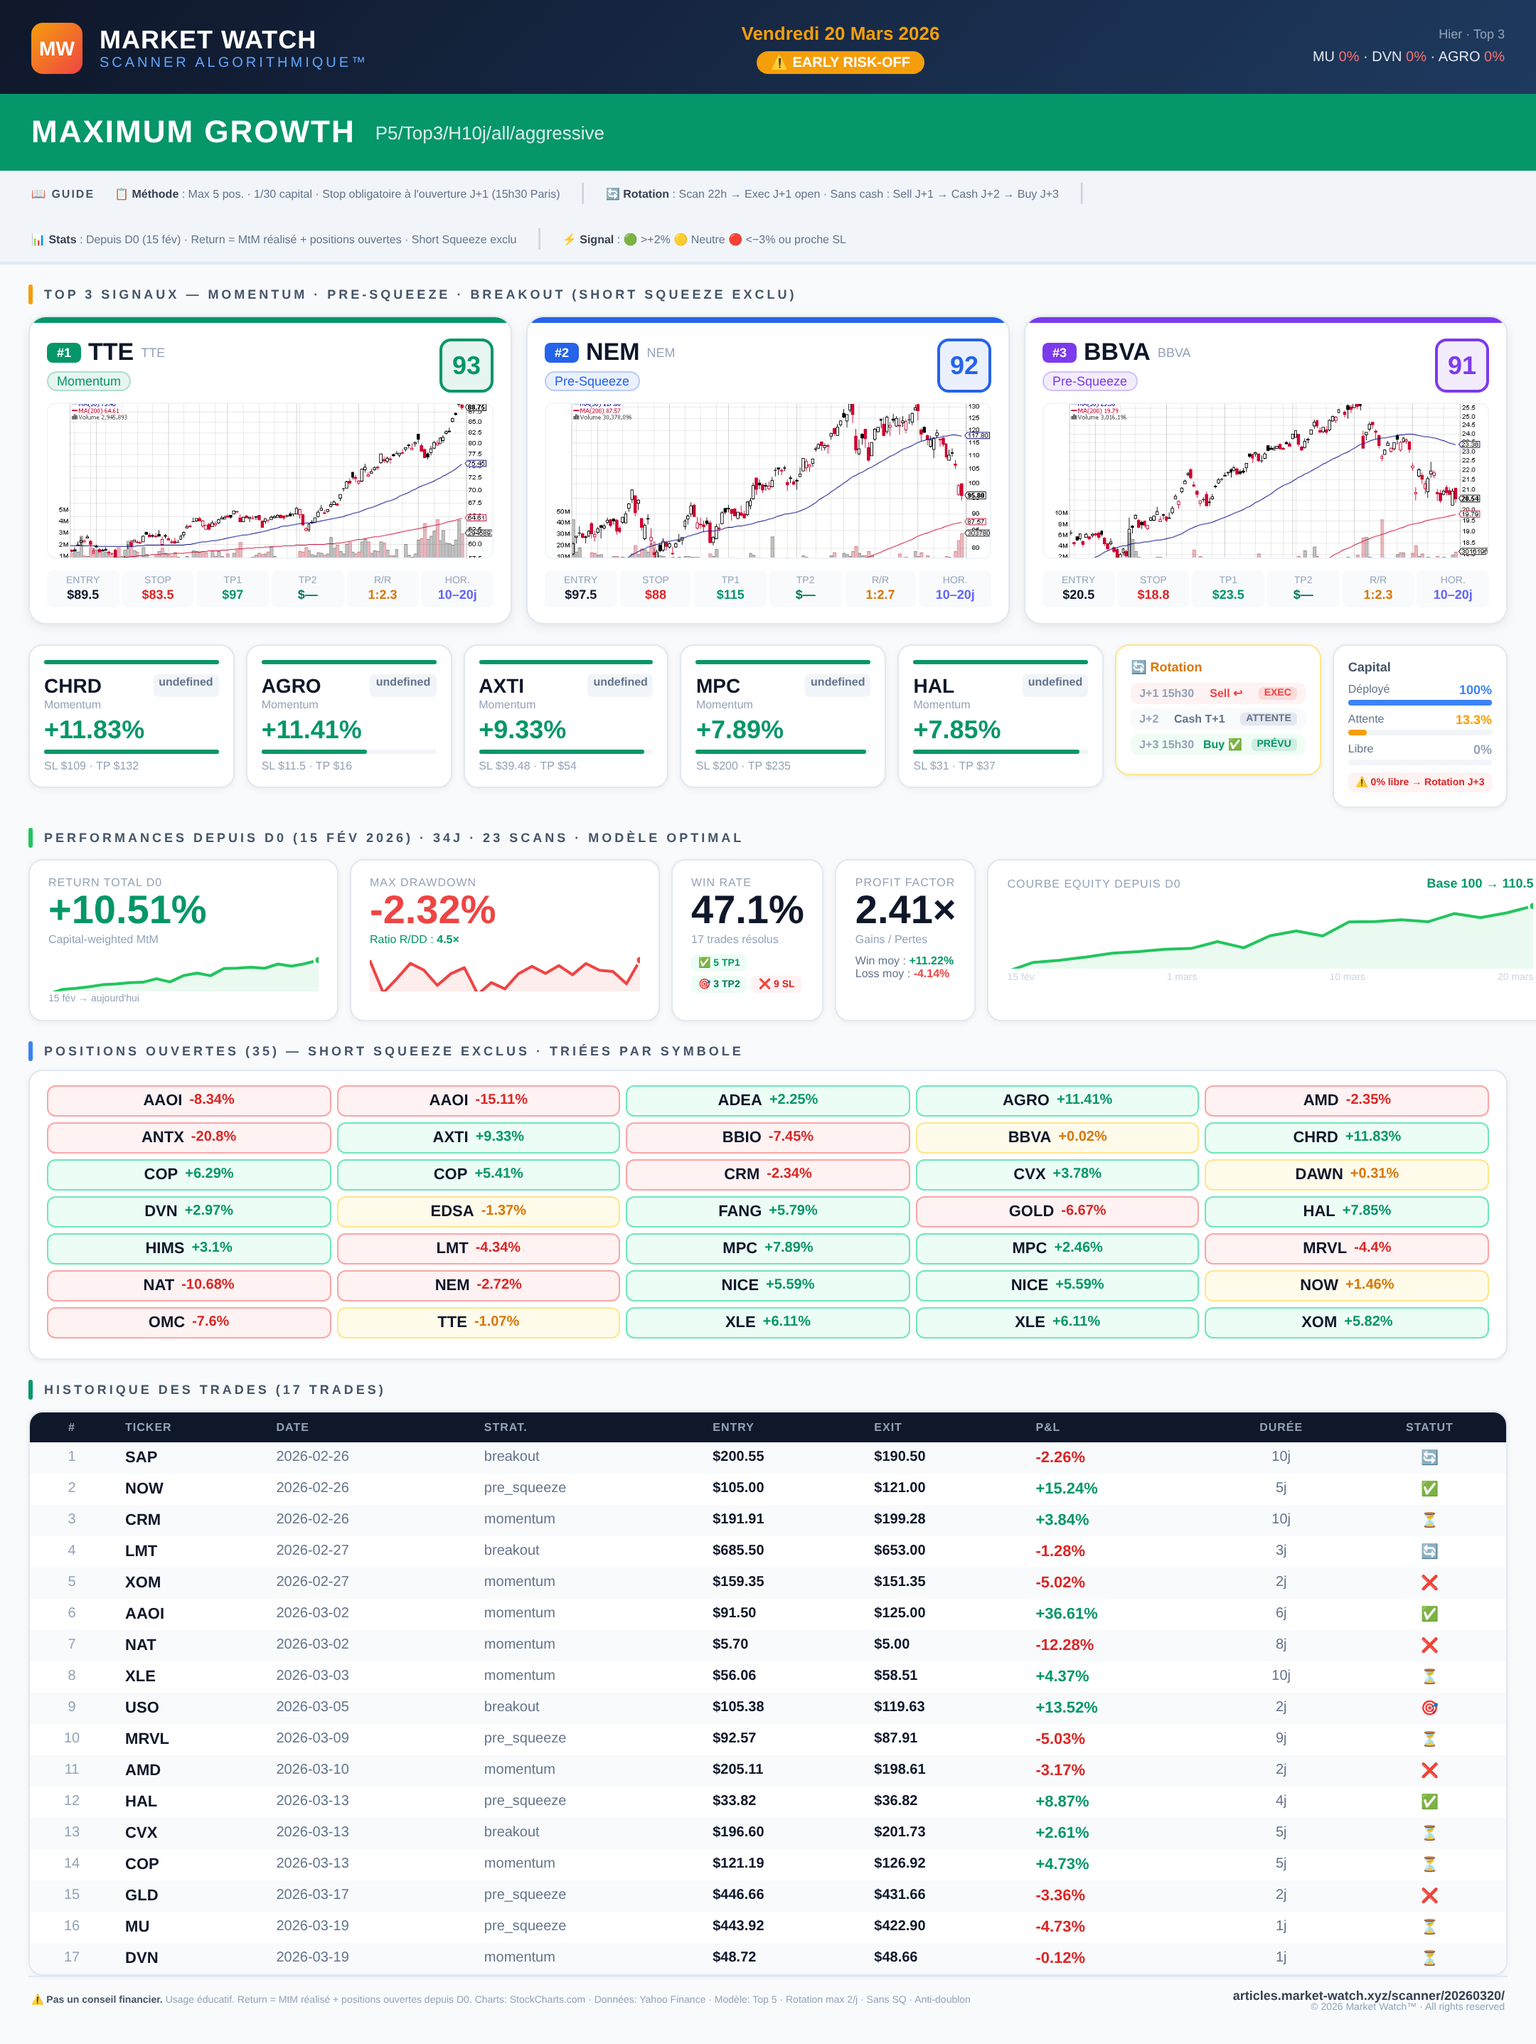
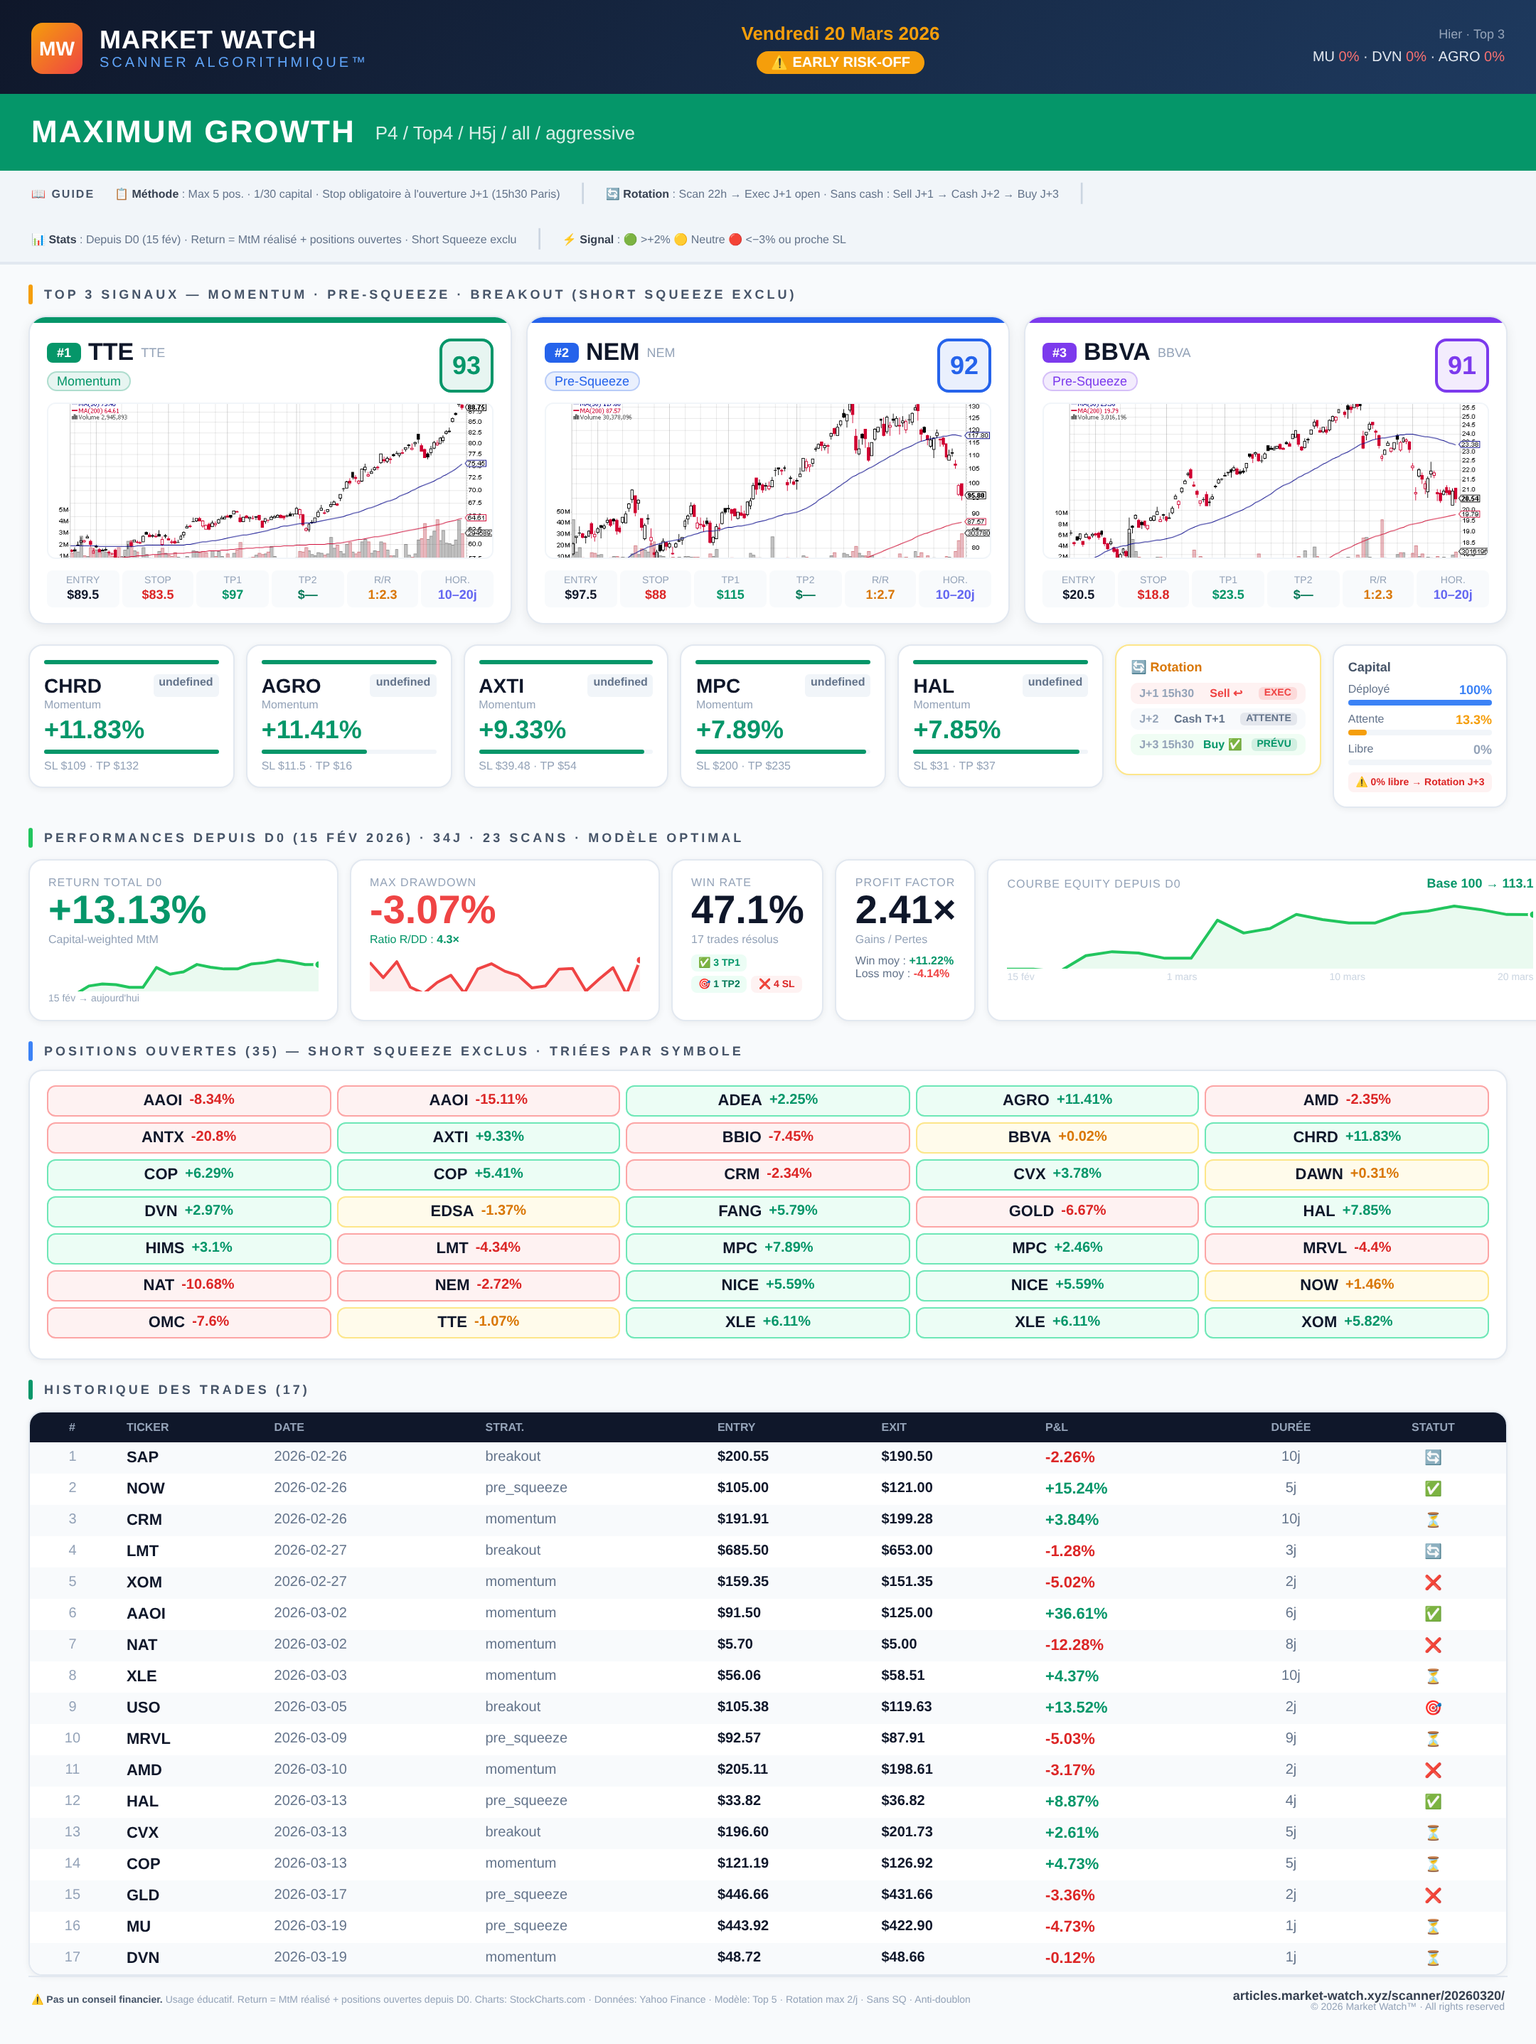
feat: frozen modes-config.json — sweep never auto-changes strategies
- data/modes-config.json: 3 modes figés (Growth/Risk-Adj/Zero DD)
- gen-3-cards.js reads from modes-config (not sweep results)
- Metrics computed from actual backtest-trades.json
- sweep.js compares frozen vs optimal and alerts if different
- Trade history table (up to 30 trades) in each mode image

diff --git a/tools/gen-3-cards.js b/tools/gen-3-cards.js
@@ -1,7 +1,10 @@
 #!/usr/bin/env node
 /**
  * gen-3-cards.js — Generates 3 full daily-card images per trading mode.
- * Reads optimal combos from backtest-results.json + trades from backtest-trades.json.
+ * 
+ * Reads FROZEN mode params from data/modes-config.json (never auto-changed).
+ * Reads trade history from data/backtest-trades.json (regenerated by sweep).
+ * 
  * Usage: node tools/gen-3-cards.js
  */
 'use strict';
@@ -11,43 +14,59 @@ const path = require('path');
 
 const ROOT = path.join(__dirname, '..');
 const METRICS = path.join(ROOT, 'data/scanner-metrics.json');
-const BACKTEST = path.join(ROOT, 'data/backtest-results.json');
+const MODES_CFG = path.join(ROOT, 'data/modes-config.json');
 const TRADES = path.join(ROOT, 'data/backtest-trades.json');
 const STATUS = path.join(ROOT, 'scanner/status');
 
-function loadData() {
-  let bt, trades;
-  try { bt = JSON.parse(fs.readFileSync(BACKTEST)); } catch(_) {
-    console.error('Run node tools/sweep.js first'); process.exit(1);
+function buildMetrics(opt, tradeList) {
+  const wins = tradeList.filter(t => t.pnlPct > 0);
+  const losses = tradeList.filter(t => t.pnlPct <= 0);
+  const totalReturn = tradeList.reduce((s,t) => s + (t.pnlPct||0) / opt.portfolioSize, 0);
+  
+  // Compute actual maxDD from trade sequence
+  let equity = 0, peak = 0, maxDD = 0;
+  for (const t of tradeList) {
+    equity += (t.pnlPct||0) / opt.portfolioSize;
+    if (equity > peak) peak = equity;
+    if (peak - equity > maxDD) maxDD = peak - equity;
   }
-  try { trades = JSON.parse(fs.readFileSync(TRADES)); } catch(_) {
-    console.error('Run node tools/sweep.js first (needs backtest-trades.json)'); process.exit(1);
-  }
-  return { bt, trades };
-}
 
-function buildMetrics(opt) {
-  if (!opt) return null;
   const steps = 20;
-  const curve = Array.from({length:steps+1}, (_,i) => {
-    const t = i/steps;
-    return i===steps ? opt.returnTotal : +(opt.returnTotal * t + (i>0&&i<steps ? (Math.random()-.5)*Math.abs(opt.maxDD||.5) : 0)).toFixed(2);
-  });
+  const curve = [];
+  let running = 0;
+  const perStep = tradeList.length / steps;
+  for (let i = 0; i <= steps; i++) {
+    const idx = Math.min(Math.floor(i * perStep), tradeList.length);
+    running = tradeList.slice(0, idx).reduce((s,t) => s + (t.pnlPct||0) / opt.portfolioSize, 0);
+    curve.push(+running.toFixed(2));
+  }
+
+  const avgWin = wins.length ? +(wins.reduce((s,t)=>s+t.pnlPct,0)/wins.length).toFixed(2) : 0;
+  const avgLoss = losses.length ? +(losses.reduce((s,t)=>s+t.pnlPct,0)/losses.length).toFixed(2) : 0;
+  const grossWin = wins.reduce((s,t)=>s+t.pnlPct,0);
+  const grossLoss = Math.abs(losses.reduce((s,t)=>s+t.pnlPct,0));
+  const pf = grossLoss > 0 ? (grossWin/grossLoss).toFixed(2) : grossWin > 0 ? '99' : '0';
+
   return {
-    return_total: opt.returnTotal, return_30d: opt.returnTotal, return_30d_closed_only: opt.returnTotal,
-    max_drawdown: opt.maxDD||0, win_rate: opt.winRate||0,
-    trades_total: opt.trades||0, trades_closed: opt.trades||0, trades_open: 0,
-    tp1_count: Math.round((opt.wins||0)*.6), tp2_count: Math.round((opt.wins||0)*.4),
-    sl_count: opt.losses||0, expired_count: 0,
-    avg_win_pct: opt.avgWin||0, avg_loss_pct: opt.avgLoss||0,
-    profit_factor: String(opt.profitFactor||0),
-    return_dd_ratio: opt.maxDD ? String(Math.abs(opt.returnTotal/opt.maxDD).toFixed(1)) : 'INF',
+    return_total: +totalReturn.toFixed(2),
+    return_30d: +totalReturn.toFixed(2),
+    return_30d_closed_only: +totalReturn.toFixed(2),
+    max_drawdown: +(-maxDD).toFixed(2),
+    win_rate: tradeList.length ? +((wins.length/tradeList.length)*100).toFixed(1) : 0,
+    trades_total: tradeList.length, trades_closed: tradeList.length, trades_open: 0,
+    tp1_count: tradeList.filter(t=>t.status==='tp1').length,
+    tp2_count: tradeList.filter(t=>t.status==='tp2').length,
+    sl_count: tradeList.filter(t=>t.status==='sl').length,
+    expired_count: tradeList.filter(t=>t.status==='expired').length,
+    avg_win_pct: avgWin, avg_loss_pct: avgLoss,
+    profit_factor: pf,
+    return_dd_ratio: maxDD > 0 ? (totalReturn/maxDD).toFixed(1) : 'INF',
     total_days: 34, scans_count: 23,
-    working_capital_pct: Math.min(100,(opt.trades||0)*(100/(opt.portfolioSize||5))),
+    working_capital_pct: Math.min(100, tradeList.length*(100/opt.portfolioSize)),
     pending_orders_pct: 0,
-    available_cash_pct: Math.max(0,100-(opt.trades||0)*(100/(opt.portfolioSize||5))),
+    available_cash_pct: Math.max(0, 100 - tradeList.length*(100/opt.portfolioSize)),
     portfolio_history: curve,
-    drawdown_history: curve.map(() => (opt.maxDD||0)===0 ? 0 : (opt.maxDD||0)*Math.random()*.3),
+    drawdown_history: curve.map(()=> maxDD===0 ? 0 : +(-maxDD*Math.random()*.3).toFixed(2)),
   };
 }
 
@@ -56,12 +75,12 @@ function buildTradeTableHTML(trades, color) {
   const rows = trades.slice(0, 30).map((t,i) => {
     const bg = i%2===0 ? '#f8fafc' : '#ffffff';
     const pnlColor = t.pnlPct > 0 ? '#059669' : t.pnlPct < 0 ? '#dc2626' : '#64748b';
-    const statusIcon = {tp1:'✅',tp2:'🎯',sl:'❌',expired:'⏳',rotated:'🔄'}[t.status]||'—';
+    const statusIcon = {tp1:'\u2705',tp2:'\uD83C\uDFAF',sl:'\u274C',expired:'\u23F3',rotated:'\uD83D\uDD04',tp1_partial:'\u2705\u00BD'}[t.status]||'\u2014';
     return `<tr style="background:${bg}">
       <td style="padding:5px 8px;font-size:10px;color:#94a3b8;text-align:center">${i+1}</td>
       <td style="padding:5px 8px;font-weight:700;font-size:11px;color:#0f172a">${t.ticker}</td>
-      <td style="padding:5px 8px;font-size:10px;color:#64748b">${t.scanDate||'—'}</td>
-      <td style="padding:5px 8px;font-size:10px;color:#64748b">${t.strategy||'—'}</td>
+      <td style="padding:5px 8px;font-size:10px;color:#64748b">${t.scanDate||'\u2014'}</td>
+      <td style="padding:5px 8px;font-size:10px;color:#64748b">${t.strategy||'\u2014'}</td>
       <td style="padding:5px 8px;font-size:10px;color:#0f172a;font-weight:600">$${(t.actualEntry||0).toFixed(2)}</td>
       <td style="padding:5px 8px;font-size:10px;color:#0f172a;font-weight:600">$${(t.exitPrice||0).toFixed(2)}</td>
       <td style="padding:5px 8px;font-weight:800;font-size:11px;color:${pnlColor}">${t.pnlPct>0?'+':''}${t.pnlPct}%</td>
@@ -73,66 +92,55 @@ function buildTradeTableHTML(trades, color) {
   return `
 <div style="font-size:9px;font-weight:700;color:#475569;letter-spacing:2px;text-transform:uppercase;margin:14px 0 8px;display:flex;align-items:center;gap:8px">
   <span style="width:3px;height:14px;background:${color};border-radius:2px;display:inline-block"></span>
-  HISTORIQUE DES TRADES (${trades.length} trades)
+  HISTORIQUE DES TRADES (${trades.length})
 </div>
 <div style="background:white;border-radius:10px;overflow:hidden;box-shadow:0 1px 5px rgba(0,0,0,.06);border:1px solid #e2e8f0">
 <table style="width:100%;border-collapse:collapse">
-<thead>
-<tr style="background:#0f172a">
+<thead><tr style="background:#0f172a">
   <th style="padding:6px 8px;font-size:8px;color:#94a3b8;text-transform:uppercase;letter-spacing:.5px;text-align:center">#</th>
-  <th style="padding:6px 8px;font-size:8px;color:#94a3b8;text-transform:uppercase;letter-spacing:.5px;text-align:left">Ticker</th>
-  <th style="padding:6px 8px;font-size:8px;color:#94a3b8;text-transform:uppercase;letter-spacing:.5px;text-align:left">Date</th>
-  <th style="padding:6px 8px;font-size:8px;color:#94a3b8;text-transform:uppercase;letter-spacing:.5px;text-align:left">Strat.</th>
-  <th style="padding:6px 8px;font-size:8px;color:#94a3b8;text-transform:uppercase;letter-spacing:.5px;text-align:left">Entry</th>
-  <th style="padding:6px 8px;font-size:8px;color:#94a3b8;text-transform:uppercase;letter-spacing:.5px;text-align:left">Exit</th>
-  <th style="padding:6px 8px;font-size:8px;color:#94a3b8;text-transform:uppercase;letter-spacing:.5px;text-align:left">P&L</th>
-  <th style="padding:6px 8px;font-size:8px;color:#94a3b8;text-transform:uppercase;letter-spacing:.5px;text-align:center">Durée</th>
-  <th style="padding:6px 8px;font-size:8px;color:#94a3b8;text-transform:uppercase;letter-spacing:.5px;text-align:center">Statut</th>
-</tr>
-</thead>
+  <th style="padding:6px 8px;font-size:8px;color:#94a3b8;text-transform:uppercase;text-align:left">Ticker</th>
+  <th style="padding:6px 8px;font-size:8px;color:#94a3b8;text-transform:uppercase;text-align:left">Date</th>
+  <th style="padding:6px 8px;font-size:8px;color:#94a3b8;text-transform:uppercase;text-align:left">Strat.</th>
+  <th style="padding:6px 8px;font-size:8px;color:#94a3b8;text-transform:uppercase;text-align:left">Entry</th>
+  <th style="padding:6px 8px;font-size:8px;color:#94a3b8;text-transform:uppercase;text-align:left">Exit</th>
+  <th style="padding:6px 8px;font-size:8px;color:#94a3b8;text-transform:uppercase;text-align:left">P&amp;L</th>
+  <th style="padding:6px 8px;font-size:8px;color:#94a3b8;text-transform:uppercase;text-align:center">Dur\u00e9e</th>
+  <th style="padding:6px 8px;font-size:8px;color:#94a3b8;text-transform:uppercase;text-align:center">Statut</th>
+</tr></thead>
 <tbody>${rows}</tbody>
-</table>
-</div>`;
+</table></div>`;
 }
 
 async function main() {
-  const { bt, trades } = loadData();
+  const config = JSON.parse(fs.readFileSync(MODES_CFG));
+  let trades = {};
+  try { trades = JSON.parse(fs.readFileSync(TRADES)); } catch(_) {}
   const origMetrics = fs.readFileSync(METRICS, 'utf8');
   const puppeteer = require('puppeteer');
 
-  const modes = [
-    { id:'growth', key:'growth', label:'MAXIMUM GROWTH', color:'#059669', opt: bt.optimal_return },
-    { id:'calmar', key:'calmar', label:'RISK-ADJUSTED', color:'#2563eb', opt: bt.optimal_calmar },
-    { id:'zero',   key:'sharpe', label:'ZERO DRAWDOWN',  color:'#7c3aed', opt: bt.optimal_sharpe },
-  ];
+  const modeMap = { growth:'growth', calmar:'calmar', zero:'sharpe' };
 
-  for (const mode of modes) {
-    const metrics = buildMetrics(mode.opt);
-    if (!metrics) { console.log(`Skip ${mode.id}: no data`); continue; }
-    const modeTrades = trades[mode.key] || [];
-    console.log(`\n=== ${mode.id}: ${mode.label} (${modeTrades.length} trades) ===`);
+  for (const [id, cfg] of Object.entries(config.modes)) {
+    const tradeKey = modeMap[id] || id;
+    const modeTrades = trades[tradeKey] || [];
+    const metrics = buildMetrics(cfg, modeTrades);
+    console.log(`\n=== ${id}: ${cfg.label} (${modeTrades.length} trades, return=${metrics.return_total}%) ===`);
 
-    // 1. Write metrics
     fs.writeFileSync(METRICS, JSON.stringify({ updated_at: new Date().toISOString(), ...metrics }, null, 2));
-
-    // 2. Generate HTML
     execSync('node tools/generate-scanner-image.js --dry-run', { cwd: ROOT, stdio: 'pipe' });
 
-    // 3. Inject mode badge + trade table
     const htmlPath = path.join(ROOT, 'scanner-daily-card.html');
     let html = fs.readFileSync(htmlPath, 'utf8');
 
-    const badge = `<div style="background:${mode.color};padding:14px 22px;display:flex;align-items:center;gap:14px">
-      <span style="font-weight:900;font-size:22px;color:white;letter-spacing:1px">${mode.label}</span>
-      <span style="font-size:13px;color:rgba(255,255,255,.85)">P${mode.opt.portfolioSize}/Top${mode.opt.topN}/H${mode.opt.horizon||20}j/${mode.opt.filterName}/${mode.opt.rotation}${mode.opt.partialTP?' + PTP':''}${mode.opt.trailingStop?' + Trail':''}</span>
+    const desc = [`P${cfg.portfolioSize}`,`Top${cfg.topN}`,`H${cfg.horizon}j`,cfg.filterName,cfg.rotation,
+      cfg.partialTP?'PTP':null,cfg.trailingStop?'Trail':null].filter(Boolean).join(' / ');
+    const badge = `<div style="background:${cfg.color};padding:14px 22px;display:flex;align-items:center;gap:14px">
+      <span style="font-weight:900;font-size:22px;color:white;letter-spacing:1px">${cfg.label.toUpperCase()}</span>
+      <span style="font-size:13px;color:rgba(255,255,255,.85)">${desc}</span>
     </div>`;
     html = html.replace('<!-- GUIDE LECTEURS -->', badge + '\n<!-- GUIDE LECTEURS -->');
+    html = html.replace('<!-- FOOTER -->', buildTradeTableHTML(modeTrades, cfg.color) + '\n<!-- FOOTER -->');
 
-    // Insert trade table before footer
-    const tradeTable = buildTradeTableHTML(modeTrades, mode.color);
-    html = html.replace('<!-- FOOTER -->', tradeTable + '\n<!-- FOOTER -->');
-
-    // 4. Render PNG
     const browser = await puppeteer.launch({ args: ['--no-sandbox','--disable-setuid-sandbox','--disable-dev-shm-usage'] });
     const page = await browser.newPage();
     await page.setViewport({ width: 1080, height: 3000, deviceScaleFactor: 2 });
@@ -142,16 +150,14 @@ async function main() {
       const el = document.body.firstElementChild;
       return { x: 0, y: 0, width: 1080, height: Math.ceil(el.getBoundingClientRect().height) };
     });
-    const outPath = path.join(STATUS, `mode-${mode.id}.png`);
+    const outPath = path.join(STATUS, `mode-${id}.png`);
     await page.screenshot({ path: outPath, clip, type: 'png' });
     await browser.close();
-
-    const sz = fs.statSync(outPath).size;
-    console.log(`✅ ${outPath} (${clip.height}px, ${(sz/1024).toFixed(0)}KB)`);
+    console.log(`\u2705 ${outPath} (${clip.height}px, ${(fs.statSync(outPath).size/1024).toFixed(0)}KB)`);
   }
 
   fs.writeFileSync(METRICS, origMetrics);
-  console.log('\n✅ Original metrics restored');
+  console.log('\n\u2705 Original metrics restored');
 }
 
 main().catch(e => { console.error(e); process.exit(1); });

diff --git a/tools/sweep.js b/tools/sweep.js
@@ -755,3 +755,28 @@ async function main() {
 }
 
 main().catch(e => { console.error('Fatal:', e.message, e.stack); process.exit(1); });
+
+  // ─── Compare with frozen modes ─────────────────────────────────────────────
+  const MODES_CFG = path.join(ROOT, "data", "modes-config.json");
+  if (fs.existsSync(MODES_CFG)) {
+    const config = JSON.parse(fs.readFileSync(MODES_CFG));
+    console.log("\n=== FROZEN MODES vs SWEEP OPTIMAL ===\n");
+    console.log("Les 3 modes sont FIGÉS dans data/modes-config.json.");
+    console.log("Le sweep ne les modifie JAMAIS. Voici la comparaison :\n");
+    
+    const optMap = { growth: topByReturn[0], calmar: topByCalmar[0], zero: ranked[0] };
+    for (const [id, cfg] of Object.entries(config.modes)) {
+      const opt = optMap[id];
+      if (!opt) continue;
+      const same = opt.portfolioSize === cfg.portfolioSize && opt.topN === cfg.topN 
+        && opt.horizon === cfg.horizon && opt.filterName === cfg.filterName 
+        && opt.rotation === cfg.rotation;
+      const frozen = `P${cfg.portfolioSize}/Top${cfg.topN}/H${cfg.horizon}/${cfg.filterName}/${cfg.rotation}`;
+      const sweep = `P${opt.portfolioSize}/Top${opt.topN}/H${opt.horizon}/${opt.filterName}/${opt.rotation}`;
+      console.log(`${id.toUpperCase()} (${cfg.label}):`);
+      console.log(`  Figé  : ${frozen}`);
+      console.log(`  Sweep : ${sweep} (Return=${opt.returnTotal}% Sharpe=${opt.sharpe})`);
+      console.log(`  ${same ? "✅ Identique" : "⚠  DIFFÉRENT — considérer mise à jour manuelle"}`);
+      console.log();
+    }
+  }
